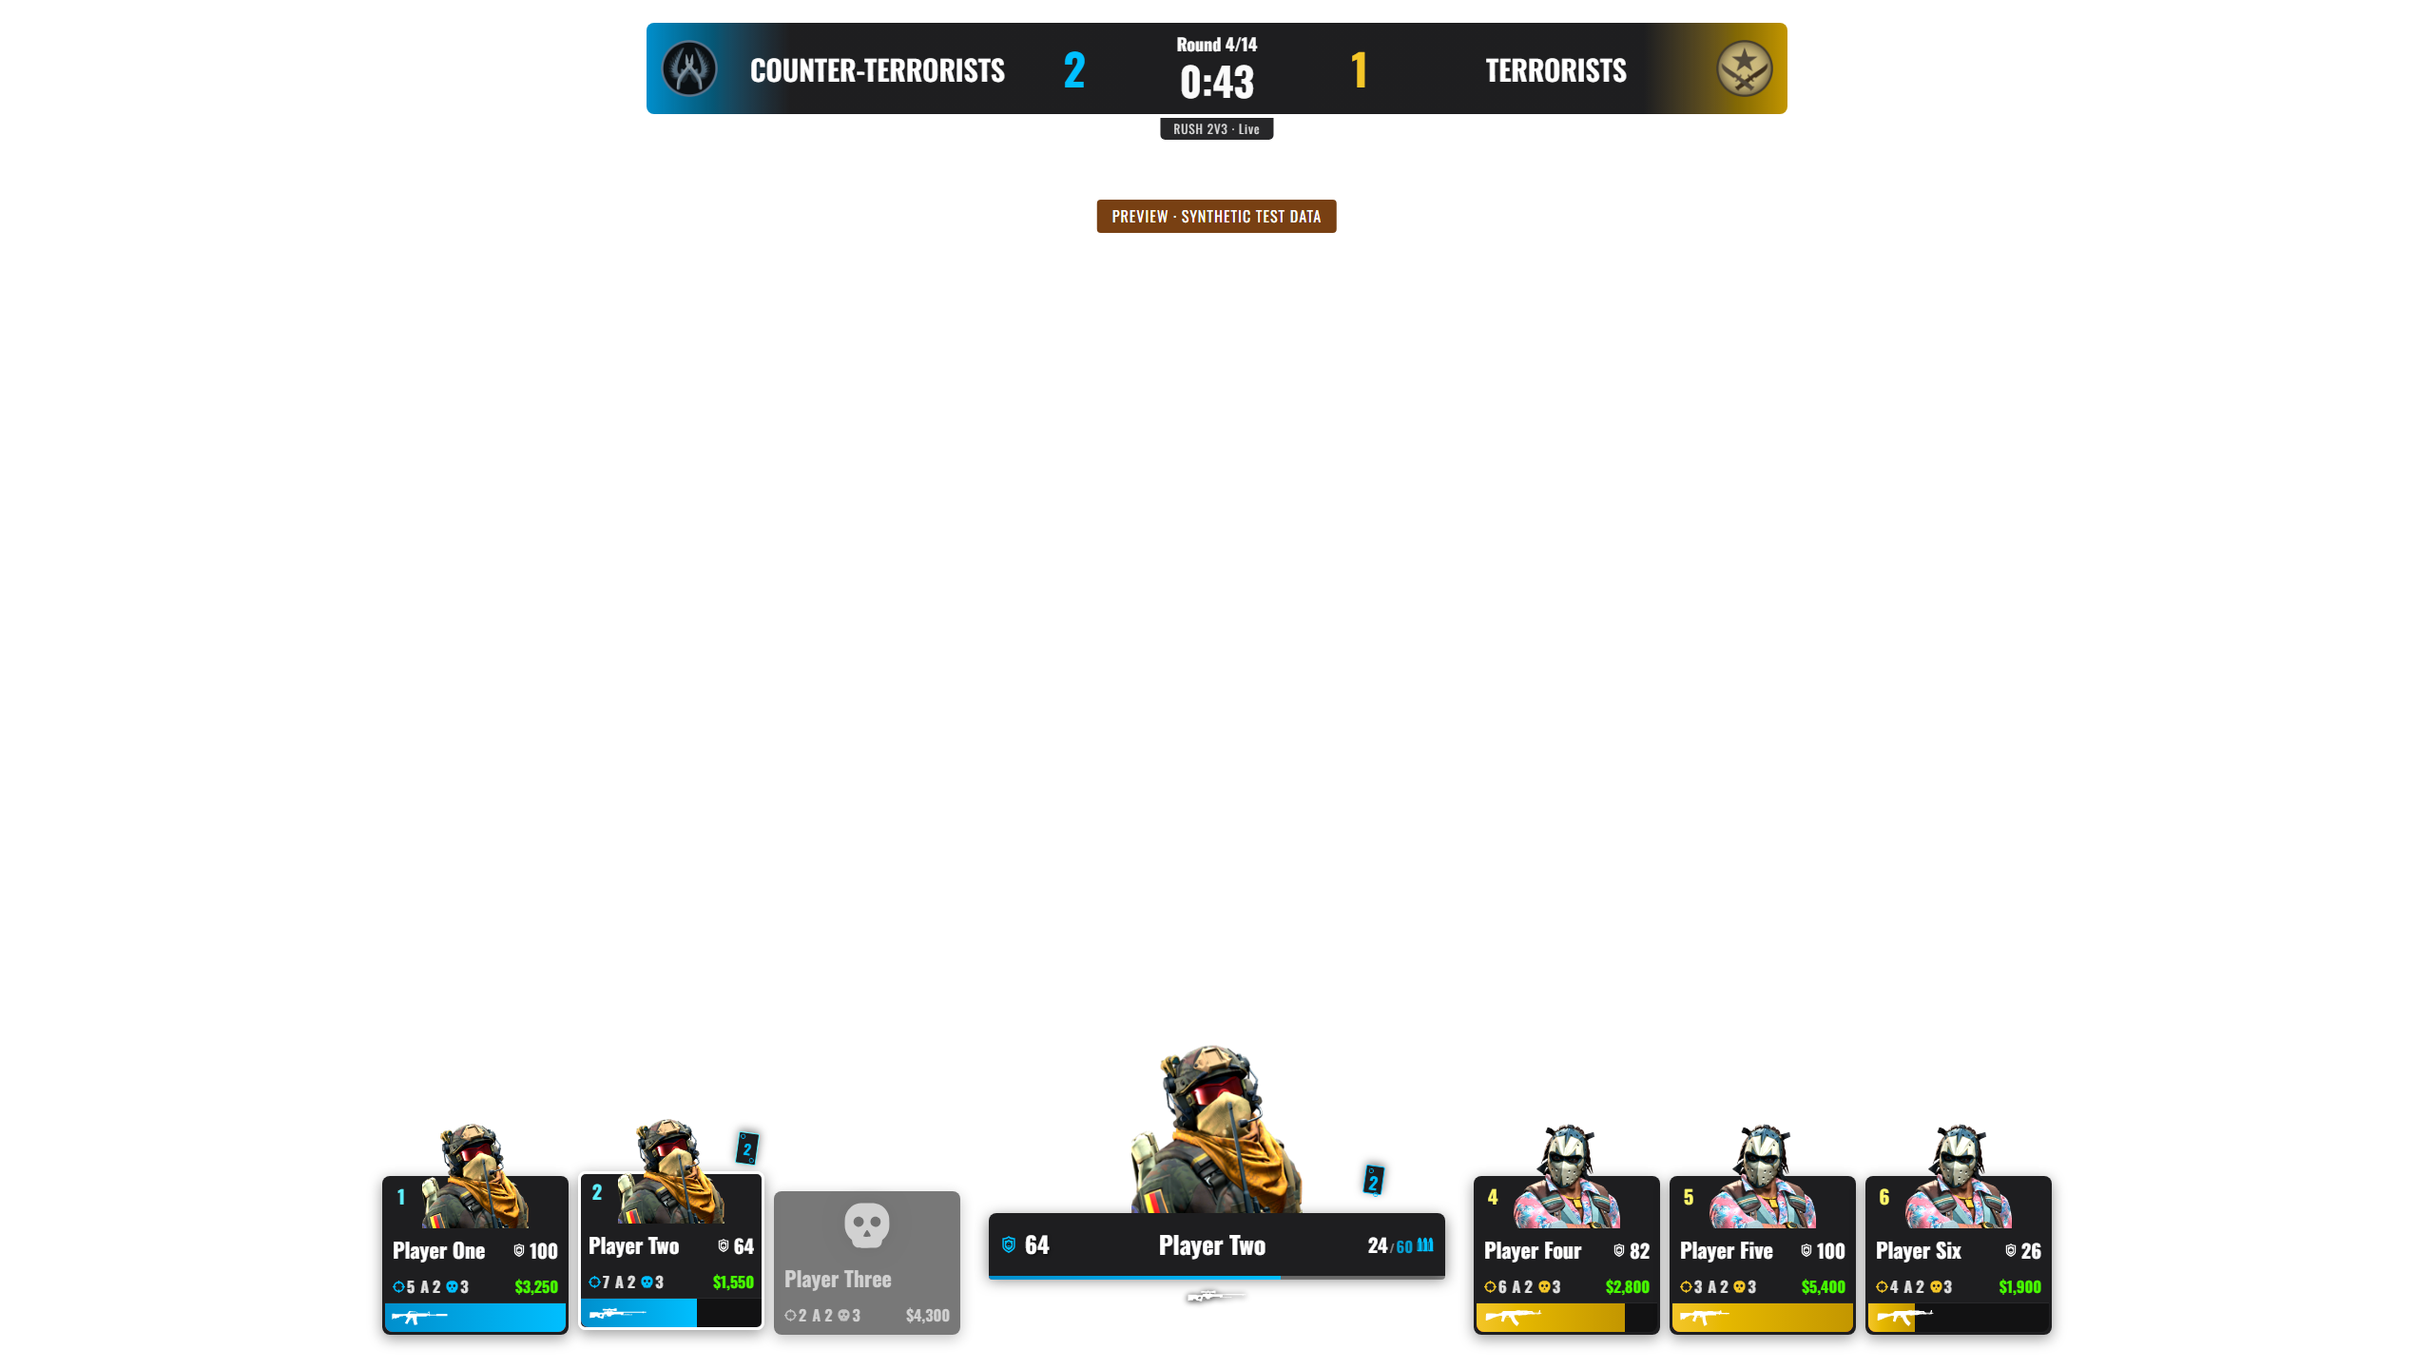
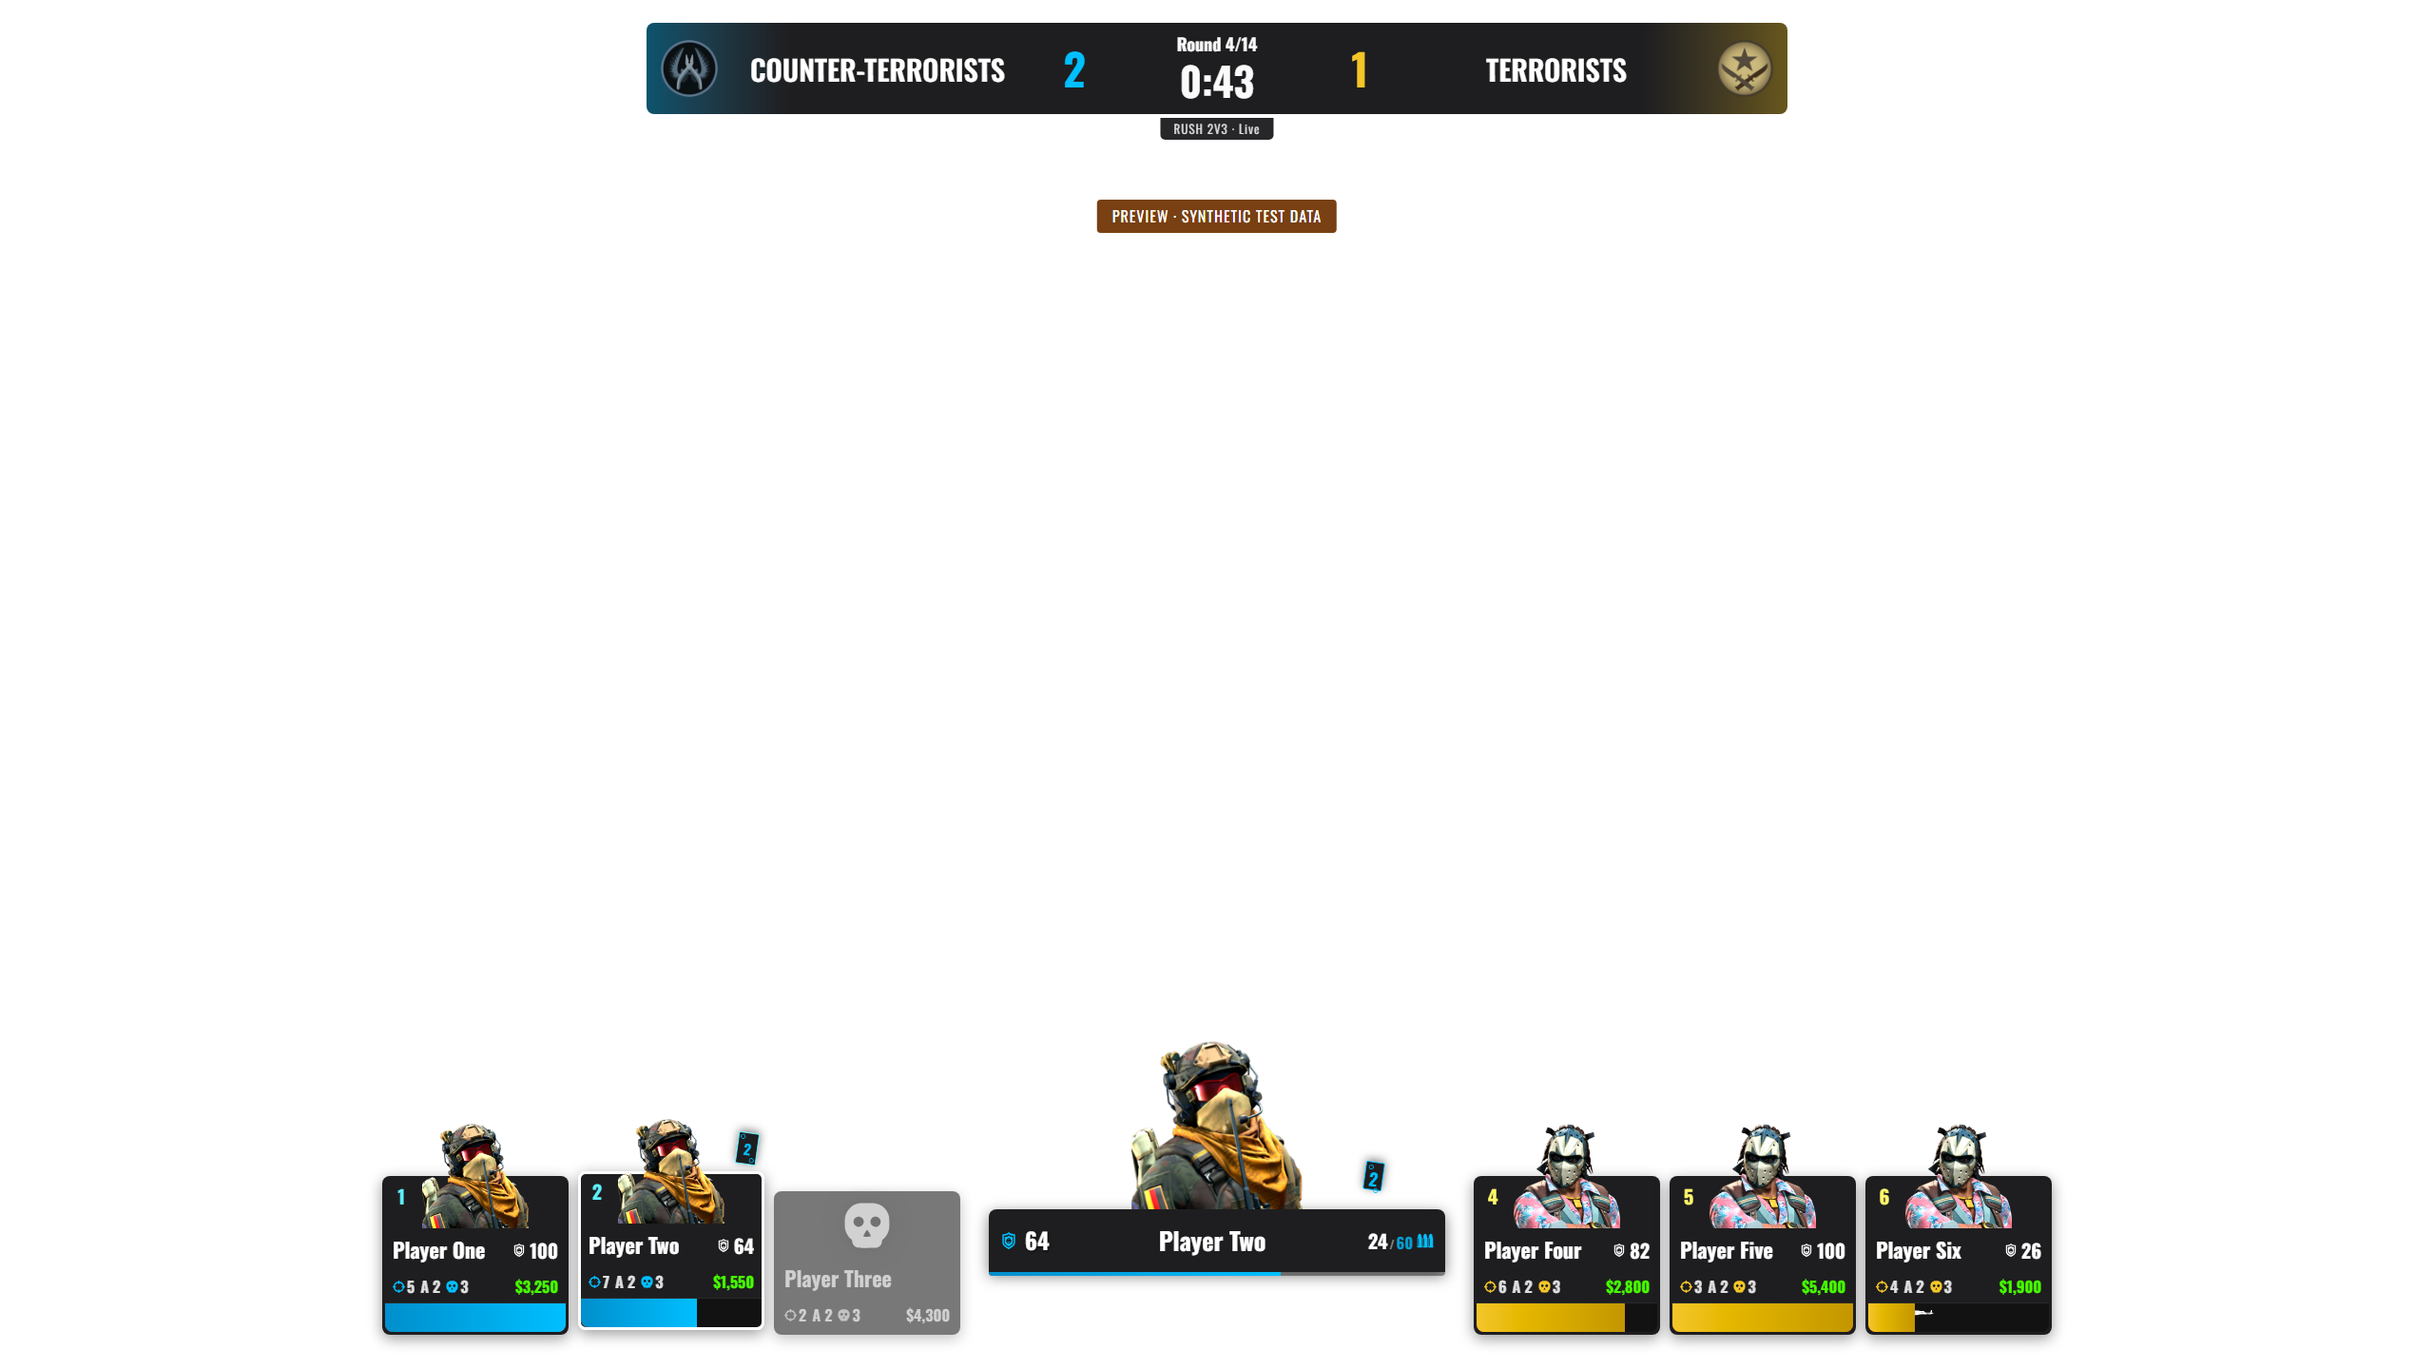
Add JT-style RUSH match overlays

Changed region(s): [[0.4062, 0.75, 0.5938, 0.9688], [0.6875, 0.0, 0.75, 0.0938], [0.25, 0.0, 0.3125, 0.0938]]

diff --git a/style.css b/style.css
@@ -44,11 +44,14 @@ body { color: #fff; }
 .T .stat-item .hud-icon { color: var(--color-t); }
 .teambox.layout-horizontal .player-horizontal-card.vertical-flow .card-info-section .money { font-size: 17px; white-space: nowrap; }
 .teambox.layout-horizontal .player-horizontal-card.vertical-flow .card-weapons-section { height: 30px; }
-.main-weapon-container { width: 56%; min-width: 0; }
-.main-weapon-container img { width: 100%; height: 21px; object-position: left; }
+.equipment-strip { width: 58%; min-width: 0; display: flex; align-items: center; gap: 3px; overflow: hidden; }
+.equipment-strip span { min-width: 0; flex: 1; display: flex; align-items: center; }
+.equipment-strip img { width: 100%; height: 21px; object-position: left; opacity: .72; }
+.equipment-strip .active img { opacity: 1; }
 .grenade-strip { height: 20px; }
-.grenade-strip span { width: 16px; display: flex; align-items: center; }
+.grenade-strip span { width: 16px; display: flex; align-items: center; position: relative; }
 .grenade-strip img { width: 100%; height: 20px; }
+.grenade-strip b { position: absolute; right: -2px; bottom: -2px; font-size: 9px; line-height: 1; text-shadow: 0 1px 2px #000; }
 .grenade-strip .active { filter: drop-shadow(0 0 3px #48ff00); }
 .weapon-fallback { display: block; max-height: 24px; font-size: 14px; line-height: 1; }
 .teambox.layout-horizontal .player-horizontal-card.vertical-flow .damage-indicator { opacity: 0; animation: none; top: -66px; left: 4px; }
@@ -78,6 +81,35 @@ body { color: #fff; }
 .observed .health-bar-red { position: absolute; left: 0; top: 0; height: 100%; background: #ff4d4d; transition: width .6s ease-out 1.5s; }
 .observed-weapon { height: 24px; margin-top: 6px; display: flex; justify-content: center; filter: drop-shadow(0 1px 3px #000); }
 .observed-weapon img { width: 90px; height: 22px; }
+.observed-inventory { height: 28px; margin-top: 6px; display: flex; justify-content: center; gap: 7px; }
+.observed-inventory span { width: 48px; height: 24px; display: flex; align-items: center; justify-content: center; opacity: .65; }
+.observed-inventory span.active { opacity: 1; filter: drop-shadow(0 0 4px #fff8); }
+.observed-inventory img { max-width: 48px; height: 22px; }
+.matchbar-team-panels { top: 128px; width: 1200px; }
+.team-econ-panel { width: 430px; padding: 9px 12px; }
+.team-econ-panel .team-econ-header { min-height: 31px; }
+.team-econ-panel .title { font-size: 12px; letter-spacing: 1px; white-space: nowrap; }
+.utility-summary-row { justify-content: flex-end; }
+.team-econ-panel.right .utility-summary-row { justify-content: flex-start; }
+.utility-item-icon { width: 34px; height: 26px; display: flex; align-items: center; }
+.utility-item-icon .weapon { width: 30px; height: 25px; }
+.utility-item strong { font-size: 15px; }
+.utility-none { color: #aaa; font-size: 12px; }
+.win_announcement { top: 146px; width: 360px; min-height: 96px; height: auto; padding: 8px 0; }
+.win_announcement .win_content .win_text_container { min-width: 0; flex: 1; }
+.win_announcement .win_content .win_text_container .team_name { font-size: 24px; line-height: 1.05; max-height: 56px; overflow: hidden; }
+#pause, #timeout { z-index: 30; }
+#pause .pause-icon { color: #fff; font: 800 27px/1 Oswald, sans-serif; letter-spacing: -5px; padding-right: 5px; }
+#tournament_info { z-index: -1; }
+.advertisement-gap .observed { bottom: 150px; }
+.models-disabled .card-avatar-section .avatar, .models-disabled .observed .avatar_container { visibility: hidden; }
+.models-disabled .player-horizontal-card.vertical-flow { margin-top: 8px !important; }
+.models-disabled .player-horizontal-card.vertical-flow .card-avatar-section { height: 16px !important; }
+.compact-rush { width: 900px !important; }
+.compact-rush .team { width: 354px !important; }
+.compact-rush .team-name { width: 196px !important; }
+.compact-rush .team .logo { width: 70px !important; }
+.compact-rush .score-container { width: 88px !important; }
 .weapon.tint { filter: brightness(0) invert(1); }
 .eg-overlay { gap: 32px; }
 .eg-header { max-width: 1800px; }

diff --git a/FEATURE-PARITY.md b/FEATURE-PARITY.md
@@ -7,20 +7,15 @@ Compared against the installed July 13, 2026 default HUD bundle and its panel.js
 - Default visual theme, Oswald font, team logos and portraits, horizontal player cards, observed-player panel, weapon/grenade silhouettes, health/armor, money, K/A/D, ammunition and round-kill cards.
 - Damage numbers, delayed health trails, flash brightness, skull/death transitions, observer highlight and score effects. Exact damage-number accumulation/timing still differs from the default.
 - RUSH round labels, 7-7 tiebreak and live survivor counts under the scoreboard. The separate top-right count remains removed as requested.
-- Version 1.4.0 adds the default-style animated end-of-match screen: winner, final scores, replaceable team logos and three-player K/A/D lists. It appears three seconds after gameover and remains while connected until the game state changes. Missing/tied results do not fabricate a winner. An explicit completed round-15 tiebreak winner can resolve a retained 7-7 score.
+- The default-style animated end-of-match screen shows the winner, final scores, replaceable team logos and three-player K/A/D lists. It appears three seconds after gameover and remains while connected until the game state changes. Missing/tied results do not fabricate a winner. An explicit completed round-15 tiebreak winner can resolve a retained 7-7 score.
+- Version 1.5.0 adds explicit round-win announcements, pause/timeout overlays, reported timeout counts, buy-phase team utility totals, tournament branding, CT/T colors, corner/model/advertisement/compact-matchbar controls, fuller carried equipment strips and accumulated rapid-hit damage numbers.
 - Local image overrides, reduced motion, stale live-data clearing and disconnect cleanup.
 
 ## Missing features that can be adapted
 
-1. **Round-win announcement:** the default has a team-logo “WINS THE ROUND!” banner. RUSH currently only shows “Round over.” Use an explicit reported round winner; do not derive objective progress from it.
-2. **Pause and timeout panels:** dedicated overlays with team logo, countdown and remaining timeouts. RUSH currently shows the phase in the small label. Only show remaining timeouts when supplied.
-3. **Team utility totals:** the default buy-phase panel sums grenades. RUSH shows each player's grenades but has no team summary. Grenade quantities must use the actual reported count rather than the number of weapon entries.
-4. **Tournament name and stage:** the default panel exposes these fields and animates them beneath the scoreboard. No corresponding RUSH panel exists.
-5. **Display controls:** manager-driven CT/T colors, sharp corners, compact matchbar, team-model/silhouette switch, advertisement spacing and layout variants. RUSH uses one horizontal layout and images.json; it does not consume these default panel settings.
-6. **Manager profiles and match assignments:** custom player names/photos, team identities/logos and configured side reversal. RUSH uses raw GSI names/sides and local image overrides, not the default's profile/match enrichment pipeline. Preserve explicit team identity when changing sides.
-7. **Series overlays:** best-of/map picks, series-win pips, next-map information and veto panels. These need an explicitly configured RUSH series; they must not assume competitive map rules.
-8. **Full inventory presentation:** the default chooses primary/pistol equipment and offers layout-specific details. RUSH emphasizes the active weapon and grenades. Preserve the distinction between active weapon and carried equipment.
-9. **Damage-number behavior:** default damage indicators accumulate rapid hits and have specific exit timing. RUSH currently shows each observed health-loss delta with similar animation.
+1. **Manager profiles and match assignments:** custom player names/photos, team identities/logos and configured side reversal. RUSH uses raw GSI names/sides and local image overrides, not the default's profile/match enrichment pipeline. Preserve explicit team identity when changing sides.
+2. **Series overlays:** best-of/map picks, series-win pips, next-map information and veto panels. These need an explicitly configured RUSH series; they must not assume competitive map rules.
+3. **Additional layout variants:** the horizontal 3v3 layout is optimized for gameplay visibility; the default's vertical and camera layouts are not yet ported.
 
 ## Data-dependent or unsuitable without adaptation
 
@@ -28,10 +23,10 @@ Compared against the installed July 13, 2026 default HUD bundle and its panel.js
 - **Killfeed:** the default contains a renderer subscribing to kill events, but its manifest advertises killfeed=false. Raw GSI health/K/D snapshots do not reliably supply killer/victim/weapon/headshot attribution. A verified event source is required; the default renderer's presence does not prove a working feed.
 - **ADR:** default results show K/D/ADR. RUSH results show K/A/D. Reliable ADR needs authoritative damage totals and round accounting, or complete captured round damage from the match start. Joining mid-match cannot recover missing damage history.
 - **Player cameras:** the default avatar component has camera hooks. These require a separately configured video feed; the RUSH addon does not integrate it.
-- **Bomb, plant and defuse widgets:** these are competitive objectives, not replacements for RUSH towers or castle captures.
+- **Bomb, plant and defuse widgets:** RUSH has no bomb or defuse objective, so these are intentionally excluded.
 - **Loss bonuses, competitive halftime and overtime sets:** do not reuse competitive calculations in RUSH without verified equivalent rules.
-- **RUSH towers/castles:** this is a RUSH-specific addition, not a missing default JT feature. The captured GSI feed does not expose the required state; retain the native objective display.
+- **RUSH tower:** tower ownership changes when a player interacts with it, but the captured GSI feed does not expose that interaction or ownership state. The HUD retains the native objective display and does not infer ownership from round winners or player positions.
 
 ## Recommended implementation order
 
-Round-win and pause/timeout panels; manager display settings and tournament branding; utility totals and inventory parity; profile/side integration; optional series and camera support. Radar, killfeed, ADR and objectives remain conditional on verified inputs.
+Profile/side integration, optional series presentation and additional layouts are the next safe additions. Radar, killfeed, ADR, cameras and tower ownership remain conditional on verified inputs.

diff --git a/README.md b/README.md
@@ -27,12 +27,12 @@ End users do not need Node.js or a separate addon server. Keep the manager's def
 
 ## Displayed data
 
-The animated end-of-match screen appears three seconds after CS2 reports gameover, showing the winning team, final scores and player K/A/D. It stays while connected until the next game state. An unresolved result is labeled as waiting for a confirmed winner. See [default HUD feature parity](FEATURE-PARITY.md) for remaining differences and data requirements.
+The animated end-of-match screen appears three seconds after CS2 reports gameover, showing the winning team, final scores and player K/A/D. It stays while connected until the next game state. An unresolved result is labeled as waiting for a confirmed winner. The HUD also shows explicit round-win announcements, pause and team-timeout panels, reported timeout counts, and team utility totals during the buy phase. See [default HUD feature parity](FEATURE-PARITY.md) for remaining differences and data requirements.
 
 - Three-player CT/T rosters, reported team scores, game phase and countdown.
 - The label beneath the scoreboard shows live CT-versus-T survivors, such as `RUSH 2V3 · Live`, updating on deaths and respawns. Missing or stale data displays dashes.
 - RUSH rounds 1–14 and a **Tiebreak** label at 7–7. No competitive /24 counter, overtime sets, halftime or loss-bonus calculations.
-- Health, armor, money, active weapons, kills, assists and deaths.
+- Health, armor, money, active and carried weapons, grenades, kills, assists and deaths.
 - Observed-player highlighting and ammunition.
 - The default JT HUD's horizontal portrait cards, team logos, central observed-player portrait, weapon silhouettes, gradients, skull/death transitions and delayed red health trails. Floating damage numbers and score/observer transitions preserve their state across updates. Animations respect reduced-motion preferences. The top-right player counter is omitted.
 - Round-kill cards use reported `state.round_kills`, separately from cumulative match kills.
@@ -40,9 +40,11 @@ The animated end-of-match screen appears three seconds after CS2 reports gameove
 
 The 1440p layout follows the default HUD: a top-center scoreboard and bottom-center observer panel flanked by horizontal team cards. The cards are enlarged for readable 3v3 data, with 36px bottom spacing. Long names wrap and shrink within their panels. Portraits and weapon images preserve their aspect ratio. The center of gameplay stays clear.
 
+The manager's HUD panel provides tournament name/stage, CT and T colors, square corners, a compact live-round matchbar, model visibility, and extra advertisement spacing beneath the observed-player panel. Invalid color values fall back to the standard JT colors.
+
 ## Limits and troubleshooting
 
-**Retain CS2's native RUSH objective display.** Tower ownership, castle capture and room progression were absent from the captured GSI packets. The addon does not infer them from team scores. It also does not provide a custom radar or killfeed.
+**Retain CS2's native RUSH objective display.** The tower changes ownership when a player interacts with it, but that interaction and ownership state were absent from the captured GSI packets. The addon does not infer tower ownership from team scores, round winners or player positions. RUSH has no bomb/defuse UI. The addon also does not provide a custom radar or killfeed.
 
 Full-team data requires CS2 to send an `allplayers` roster. A player-view feed may omit it. If the HUD is waiting, check that CS2 is in RUSH, that you are observing, and that the manager is receiving GSI updates. Restart CS2 after installing the GSI configuration. If the browser source cannot connect, check that the manager is running and the source uses its current address.
 
